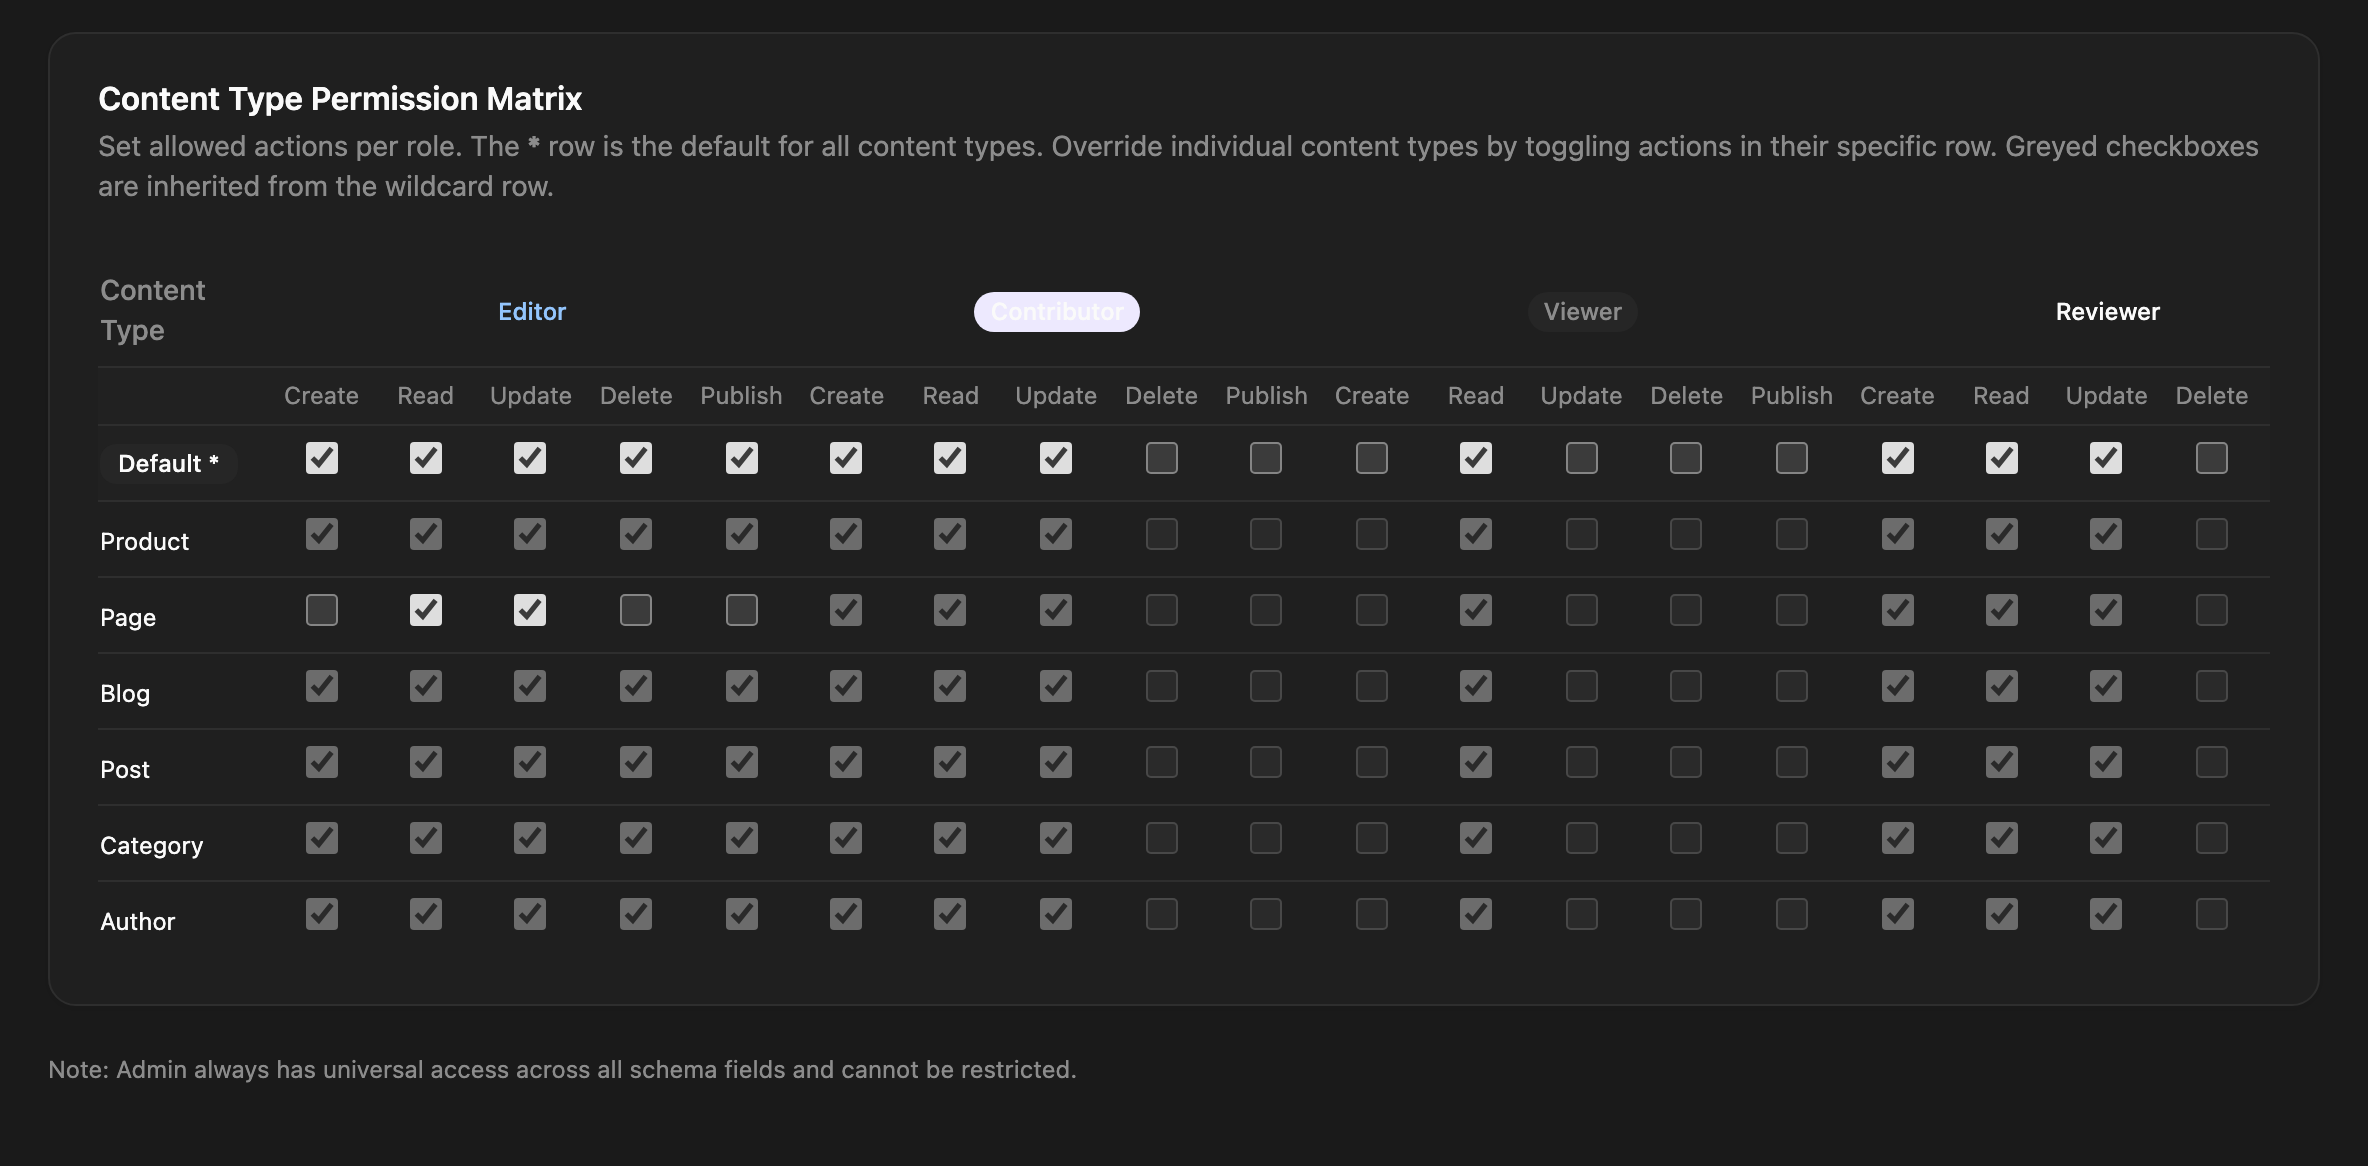
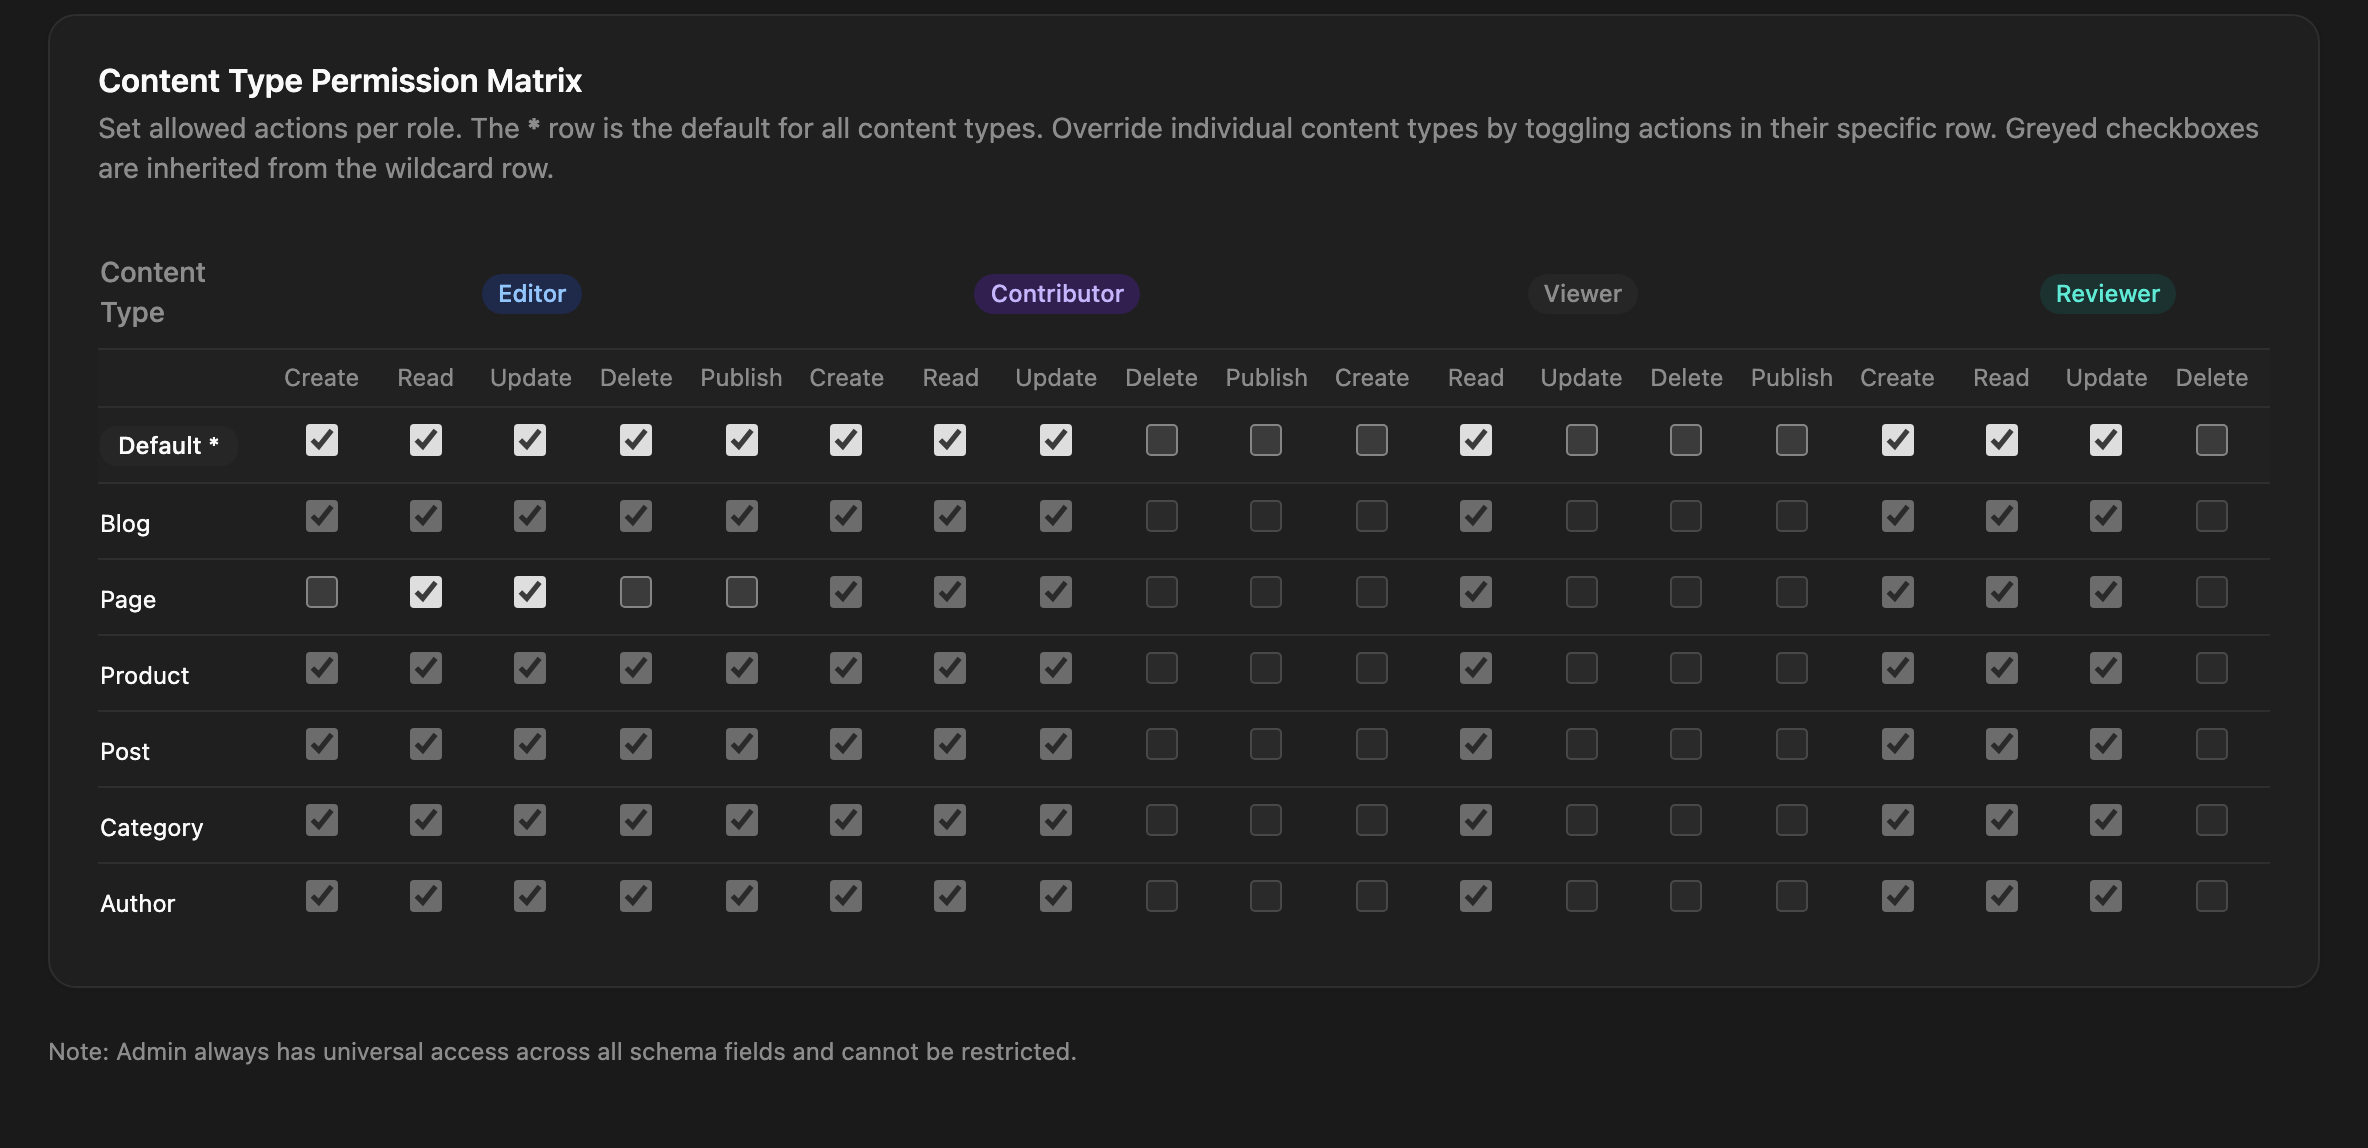
fix(admin): readable Contributor and custom-role badges in dark mode
Tailwind didn't scan lib/, where the role and release badge colours live.
Retake the Users, Roles and Permissions screenshots.

diff --git a/frontend/tailwind.config.js b/frontend/tailwind.config.js
@@ -4,6 +4,9 @@ module.exports = {
   content: [
     './app/**/*.{ts,tsx}',
     './components/**/*.{ts,tsx}',
+    // Class names also live in lib/ (role and release badge colours) and context/.
+    './lib/**/*.{ts,tsx}',
+    './context/**/*.{ts,tsx}',
   ],
   theme: {
     extend: {
